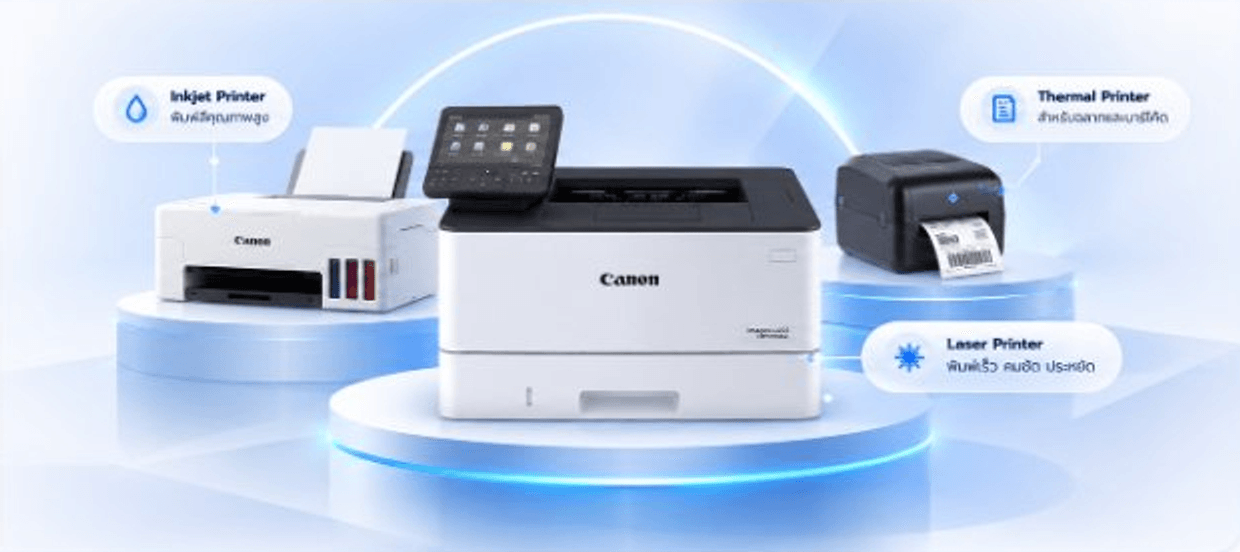
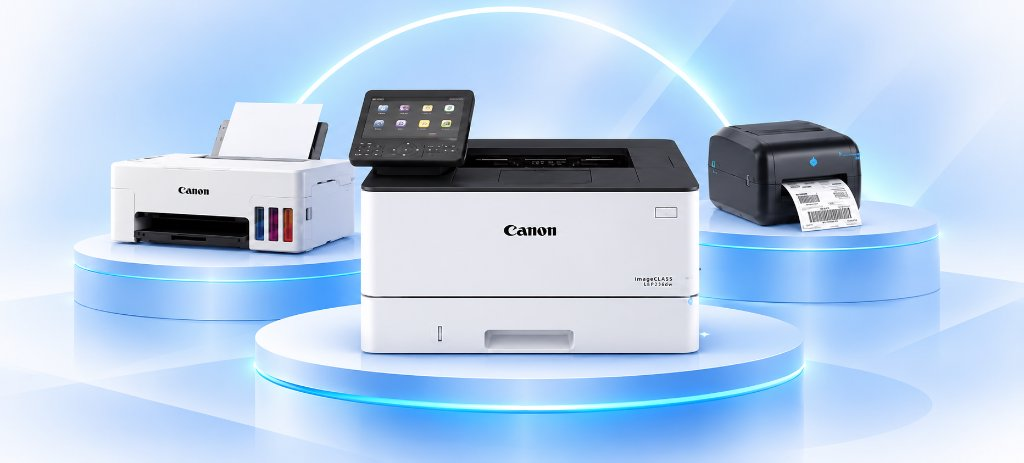
Update printer showcase image and add interactive callout badges matching mockup

diff --git a/src/components/case-studies.tsx b/src/components/case-studies.tsx
@@ -3,7 +3,7 @@
 import React, { useState, useEffect, useMemo, useRef } from 'react';
 import Link from 'next/link';
 import { useRouter } from 'next/navigation';
-import { ArrowUpRight, CheckCircle2, Play, Pause, Package, Loader2 } from 'lucide-react';
+import { ArrowUpRight, CheckCircle2, Play, Pause, Package, Loader2, Droplets, FileText, Sparkles } from 'lucide-react';
 import { motion } from 'framer-motion';
 import type { Project } from '../types';
 import { ProjectModal } from './project-modal';
@@ -65,7 +65,7 @@ export const ALL_SOLUTION_CARDS: SolutionCardItem[] = [
       shortDescription:
         'ศูนย์รวมเครื่องพิมพ์คุณภาพสูงครบวงจรสำหรับองค์กรและสถานพยาบาล รองรับตั้งแต่ Laser, Inkjet, Thermal, Wristband ไปจนถึง Dot Matrix',
       fullDescription:
-        'ศูนย์รวมเครื่องพิมพ์คุณภาพสูงครบวงจรสำหรับองค์กรและสถานพยาบาล รองรับตั้งแต่ Laser, Inkjet, Thermal, Wristband ไปจนถึง Dot Matrix',
+        'ศูนย์รวมเครื่องพิมพ์คุณภาพสูงครบวงจรสำหรับองค์กรและสถานพยาบาล รองรับตั้งแต่ Laser, Inkjet, Thermal, Wristband ไปจนถึง Dot Matrix พร้อมบริการติดตั้ง ดูแลบำรุงรักษา และจัดจำหน่ายวัสดุสิ้นเปลืองครบวงจร',
       challenge:
         'องค์กรและสถานพยาบาลต้องการเครื่องพิมพ์หลากหลายประเภท ทั้งงานพิมพ์เอกสารทั่วไป งานพิมพ์ฉลากยาความเร็วสูง และสายรัดข้อมือผู้ป่วยที่ต้องเชื่อมต่อกับระบบเครือข่ายโรงพยาบาลได้เสถียร',
       solution:
@@ -77,8 +77,8 @@ export const ALL_SOLUTION_CARDS: SolutionCardItem[] = [
       ],
       metrics: [],
       technologies: ['Laser Printing', 'Thermal Wristband', 'High-Speed Inkjet', 'Network Fleet'],
-      coverImage: `${BASE_URL}images/printer-podium-showcase.png`,
-      galleryImages: [`${BASE_URL}images/printer-podium-showcase.png`],
+      coverImage: `${BASE_URL}images/printer-podium-showcase.jpg`,
+      galleryImages: [`${BASE_URL}images/printer-podium-showcase.jpg`],
       testimonial: {
         quote:
           'เครื่องพิมพ์ของ Top Provider มีครบทุกประเภทที่โรงพยาบาลต้องการ ใช้งานทนทานและมีทีมช่างคอยดูแลรวดเร็วมาก',
@@ -787,13 +787,12 @@ function mapTopicRecordToCardItem(
     : 'printing';
 
   const title = String(t.title || 'Solution');
-  const isPrinter = title.toLowerCase() === 'printer' || String(t.id) === '1';
-  const subtitle = String(t.subtitle || (isPrinter ? 'Printing & Supply Solution' : ''));
+  const subtitle = String(t.subtitle || '');
   const shortDesc = String(t.short_description || t.full_description || '');
   const fullDesc = String(t.full_description || shortDesc);
-  const coverImage = String(t.cover_image_url || (isPrinter ? '/images/printer-podium-showcase.png' : '/images/printer-product.png'));
-  const ctaText = String(t.cta_text || (isPrinter ? 'ดูสินค้า Printer ทั้งหมด' : 'ดูสินค้าทั้งหมด'));
-  const ctaLink = String(t.cta_link || (isPrinter ? '/solutions/printing?type=printer' : `/solutions/${tabCategory}`));
+  const coverImage = String(t.cover_image_url || '/images/printer-product.png');
+  const ctaText = String(t.cta_text || 'ดูสินค้าทั้งหมด');
+  const ctaLink = String(t.cta_link || `/solutions/${tabCategory}`);
   const counterText = `${String(index + 1).padStart(2, '0')} / ${String(total).padStart(2, '0')}`;
 
   return {
@@ -801,7 +800,7 @@ function mapTopicRecordToCardItem(
     tabCategory,
     counterText,
     urlPath: `Topprovider.co.th / ${title}`,
-    clientSubtitle: subtitle || (tabCategory === 'printing' ? 'Printing & Supply Solution' : `2026 • ${title}`),
+    clientSubtitle: subtitle || `2026 • ${title}`,
     ctaText,
     ctaLink,
     isProductPhoto: true,
@@ -816,11 +815,7 @@ function mapTopicRecordToCardItem(
       fullDescription: fullDesc,
       challenge: '',
       solution: '',
-      deliverables: deliverables.length > 0 ? deliverables : [
-        'Laser & Inkjet Printer',
-        'Thermal & Wristband Printer',
-        'Large Format & Dot Matrix',
-      ],
+      deliverables,
       metrics: [],
       technologies: deliverables.slice(0, 4),
       coverImage,
@@ -1154,8 +1149,8 @@ export const StickyProjectSection: React.FC<StickyProjectSectionProps> = ({
                     </div>
 
                     <div className="flex items-center gap-2">
-                      <span className="text-[11px] font-mono lowercase text-slate-500 bg-slate-100/90 px-3 py-0.5 rounded-full border border-slate-200/60 shadow-xs">
-                        {project.category.toLowerCase()}
+                      <span className="text-[11px] font-mono text-slate-400 bg-white px-2.5 py-1 rounded-md border border-slate-200/80">
+                        {project.category}
                       </span>
                       {project.videoUrl && (
                         <button
@@ -1321,85 +1316,108 @@ export const StickyProjectSection: React.FC<StickyProjectSectionProps> = ({
                     </div>
 
                     {/* Right Column: Preview / Media */}
-                    {(() => {
-                      const isPrinterCard =
-                        cardItem.id === 'printing-printer' ||
-                        project.name.toLowerCase() === 'printer' ||
-                        project.coverImage?.includes('printer-podium') ||
-                        project.coverImage?.includes('printer-product');
-
-                      return (
-                        <div
-                          onClick={() => handleSelectCard(cardItem)}
-                          className={`w-full lg:w-[62%] relative overflow-hidden group cursor-pointer flex items-center justify-center min-h-[360px] sm:min-h-[420px] lg:min-h-full ${
-                            isPrinterCard
-                              ? 'p-0 bg-gradient-to-b from-[#F2F7FF] via-[#E8F2FD] to-white'
-                              : cardItem.isProductPhoto
-                              ? 'bg-white p-6 sm:p-8 lg:p-10'
-                              : 'bg-gradient-to-br from-slate-50/80 to-blue-50/20 p-6 sm:p-8 lg:p-10'
-                          }`}
-                        >
-                          {isPlaying && project.videoUrl ? (
-                            <div className="relative w-full aspect-[16/10] rounded-xl overflow-hidden shadow-2xl bg-black">
-                              <iframe
-                                src={project.videoUrl}
-                                title={project.name}
-                                className="w-full h-full border-0"
-                                allow="accelerometer; autoplay; clipboard-write; encrypted-media; gyroscope; picture-in-picture"
-                                allowFullScreen
-                              />
-                            </div>
-                          ) : isPrinterCard ? (
-                            <div className="relative w-full h-full min-h-[360px] sm:min-h-[420px] lg:min-h-[480px] flex items-center justify-center overflow-hidden">
-                              <img
-                                src={project.coverImage || '/images/printer-podium-showcase.png'}
-                                alt="Printer Solution Showcase"
-                                className="w-full h-full object-cover object-center transition-transform duration-700 ease-out group-hover:scale-[1.03]"
-                                loading="lazy"
-                              />
-                            </div>
-                          ) : cardItem.isProductPhoto ? (
-                            <div className="relative w-full max-w-[740px] xl:max-w-[780px] my-auto flex items-center justify-center p-2 sm:p-4 lg:p-6">
-                              <img
-                                src={project.coverImage}
-                                alt={project.name}
-                                className="w-full max-w-[440px] sm:max-w-[560px] md:max-w-[640px] lg:max-w-[720px] max-h-[440px] sm:max-h-[480px] lg:max-h-[520px] h-auto object-contain transition-transform duration-500 ease-out group-hover:scale-[1.03] drop-shadow-[0_18px_35px_rgba(0,0,0,0.12)]"
-                                loading="lazy"
-                              />
-                            </div>
-                          ) : (
-                            <div className="relative w-full max-w-[760px] my-auto transition-transform duration-500 ease-out group-hover:scale-[1.015] flex flex-col items-center justify-center">
-                              <div className="relative w-full rounded-t-xl bg-[#0F172A] border-[6px] sm:border-[8px] border-slate-900 shadow-[0_20px_50px_rgba(0,102,255,0.12)] overflow-hidden aspect-[16/10] flex items-center justify-center">
-                                <img
-                                  src={project.coverImage}
-                                  alt={project.name}
-                                  className="w-full h-full object-cover object-top"
-                                  loading="lazy"
-                                />
-
-                                {project.videoUrl && (
-                                  <button
-                                    type="button"
-                                    onClick={(e) => {
-                                      e.stopPropagation();
-                                      handleSelectProject(project);
-                                    }}
-                                    className="absolute bottom-3 right-3 px-3 py-1.5 rounded-full bg-black/60 hover:bg-black/80 backdrop-blur-md text-white text-[11px] font-medium flex items-center gap-1.5 transition-transform hover:scale-105 active:scale-95 shadow-lg border border-white/20 cursor-pointer"
-                                  >
-                                    <Play className="w-3.5 h-3.5 fill-white" />
-                                    <span>เล่นวิดีโอ</span>
-                                  </button>
-                                )}
-                              </div>
-
-                              <div className="relative w-full h-3 sm:h-3.5 bg-gradient-to-b from-slate-200 to-slate-300 rounded-b-xl border-t border-slate-400/80 shadow-md flex justify-center items-start">
-                                <div className="w-20 h-1.5 rounded-b-sm bg-slate-400" />
-                              </div>
-                            </div>
-                          )}
+                    <div
+                      onClick={() => handleSelectCard(cardItem)}
+                      className={`w-full lg:w-[62%] relative overflow-hidden group cursor-pointer flex items-center justify-center p-6 sm:p-8 lg:p-10 min-h-[360px] sm:min-h-[420px] lg:min-h-full ${
+                        cardItem.isProductPhoto
+                          ? 'bg-white'
+                          : 'bg-gradient-to-br from-slate-50/80 to-blue-50/20'
+                      }`}
+                    >
+                      {isPlaying && project.videoUrl ? (
+                        <div className="relative w-full aspect-[16/10] rounded-xl overflow-hidden shadow-2xl bg-black">
+                          <iframe
+                            src={project.videoUrl}
+                            title={project.name}
+                            className="w-full h-full border-0"
+                            allow="accelerometer; autoplay; clipboard-write; encrypted-media; gyroscope; picture-in-picture"
+                            allowFullScreen
+                          />
                         </div>
-                      );
-                    })()}
+                      ) : cardItem.isProductPhoto ? (
+                        cardItem.id === 'printing-printer' ? (
+                          <div className="relative w-full max-w-[780px] my-auto rounded-2xl sm:rounded-3xl overflow-hidden border border-blue-100/90 shadow-lg shadow-blue-500/5 group/printer">
+                            <img
+                              src={project.coverImage}
+                              alt={project.name}
+                              className="w-full h-auto max-h-[460px] sm:max-h-[500px] object-cover transition-transform duration-500 ease-out group-hover/printer:scale-[1.02]"
+                              loading="lazy"
+                            />
+
+                            {/* Badge 1: Inkjet Printer (Top-Left) */}
+                            <div className="absolute top-3 sm:top-5 left-3 sm:left-5 bg-white/95 backdrop-blur-md px-2.5 sm:px-3.5 py-1.5 sm:py-2 rounded-xl sm:rounded-2xl border border-blue-100 shadow-md flex items-center gap-2 sm:gap-2.5 z-10 transition-transform duration-300 hover:scale-105">
+                              <div className="w-6 h-6 sm:w-7 sm:h-7 rounded-lg sm:rounded-xl bg-blue-50 text-[#0062FF] flex items-center justify-center shrink-0">
+                                <Droplets className="w-3.5 h-3.5 sm:w-4 sm:h-4 text-[#0062FF]" />
+                              </div>
+                              <div className="text-left">
+                                <p className="text-[11px] sm:text-xs font-bold text-slate-900 leading-tight">Inkjet Printer</p>
+                                <p className="text-[9px] sm:text-[10px] text-slate-500 font-medium leading-tight mt-0.5">เติมหมึกคุ้มค่า</p>
+                              </div>
+                            </div>
+
+                            {/* Badge 2: Thermal Printer (Top-Right) */}
+                            <div className="absolute top-3 sm:top-5 right-3 sm:right-5 bg-white/95 backdrop-blur-md px-2.5 sm:px-3.5 py-1.5 sm:py-2 rounded-xl sm:rounded-2xl border border-blue-100 shadow-md flex items-center gap-2 sm:gap-2.5 z-10 transition-transform duration-300 hover:scale-105">
+                              <div className="w-6 h-6 sm:w-7 sm:h-7 rounded-lg sm:rounded-xl bg-blue-50 text-[#0062FF] flex items-center justify-center shrink-0">
+                                <FileText className="w-3.5 h-3.5 sm:w-4 sm:h-4 text-[#0062FF]" />
+                              </div>
+                              <div className="text-left">
+                                <p className="text-[11px] sm:text-xs font-bold text-slate-900 leading-tight">Thermal Printer</p>
+                                <p className="text-[9px] sm:text-[10px] text-slate-500 font-medium leading-tight mt-0.5">สำหรับฉลากและข้อมือ</p>
+                              </div>
+                            </div>
+
+                            {/* Badge 3: Laser Printer (Center-Right / Bottom) */}
+                            <div className="absolute bottom-3 sm:bottom-5 right-3 sm:right-8 bg-white/95 backdrop-blur-md px-2.5 sm:px-3.5 py-1.5 sm:py-2 rounded-xl sm:rounded-2xl border border-blue-100 shadow-md flex items-center gap-2 sm:gap-2.5 z-10 transition-transform duration-300 hover:scale-105">
+                              <div className="w-6 h-6 sm:w-7 sm:h-7 rounded-lg sm:rounded-xl bg-blue-50 text-[#0062FF] flex items-center justify-center shrink-0">
+                                <Sparkles className="w-3.5 h-3.5 sm:w-4 sm:h-4 text-[#0062FF]" />
+                              </div>
+                              <div className="text-left">
+                                <p className="text-[11px] sm:text-xs font-bold text-slate-900 leading-tight">Laser Printer</p>
+                                <p className="text-[9px] sm:text-[10px] text-slate-500 font-medium leading-tight mt-0.5">พิมพ์เร็ว คมชัด ประหยัด</p>
+                              </div>
+                            </div>
+                          </div>
+                        ) : (
+                          <div className="relative w-full max-w-[740px] xl:max-w-[780px] my-auto flex items-center justify-center p-2 sm:p-4 lg:p-6">
+                            <img
+                              src={project.coverImage}
+                              alt={project.name}
+                              className="w-full max-w-[440px] sm:max-w-[560px] md:max-w-[640px] lg:max-w-[720px] max-h-[440px] sm:max-h-[480px] lg:max-h-[520px] h-auto object-contain transition-transform duration-500 ease-out group-hover:scale-[1.03] drop-shadow-[0_18px_35px_rgba(0,0,0,0.12)]"
+                              loading="lazy"
+                            />
+                          </div>
+                        )
+                      ) : (
+                        <div className="relative w-full max-w-[760px] my-auto transition-transform duration-500 ease-out group-hover:scale-[1.015] flex flex-col items-center justify-center">
+                          <div className="relative w-full rounded-t-xl bg-[#0F172A] border-[6px] sm:border-[8px] border-slate-900 shadow-[0_20px_50px_rgba(0,102,255,0.12)] overflow-hidden aspect-[16/10] flex items-center justify-center">
+                            <img
+                              src={project.coverImage}
+                              alt={project.name}
+                              className="w-full h-full object-cover object-top"
+                              loading="lazy"
+                            />
+
+                            {project.videoUrl && (
+                              <button
+                                type="button"
+                                onClick={(e) => {
+                                  e.stopPropagation();
+                                  handleSelectProject(project);
+                                }}
+                                className="absolute bottom-3 right-3 px-3 py-1.5 rounded-full bg-black/60 hover:bg-black/80 backdrop-blur-md text-white text-[11px] font-medium flex items-center gap-1.5 transition-transform hover:scale-105 active:scale-95 shadow-lg border border-white/20 cursor-pointer"
+                              >
+                                <Play className="w-3.5 h-3.5 fill-white" />
+                                <span>ดูคลิปสาธิต</span>
+                              </button>
+                            )}
+                          </div>
+
+                          <div className="relative w-full h-3 sm:h-3.5 bg-gradient-to-b from-slate-200 to-slate-300 rounded-b-xl border-t border-slate-400/80 shadow-md flex justify-center items-start">
+                            <div className="w-20 h-1.5 rounded-b-sm bg-slate-400" />
+                          </div>
+                        </div>
+                      )}
+                    </div>
                   </div>
                 </motion.div>
               );
